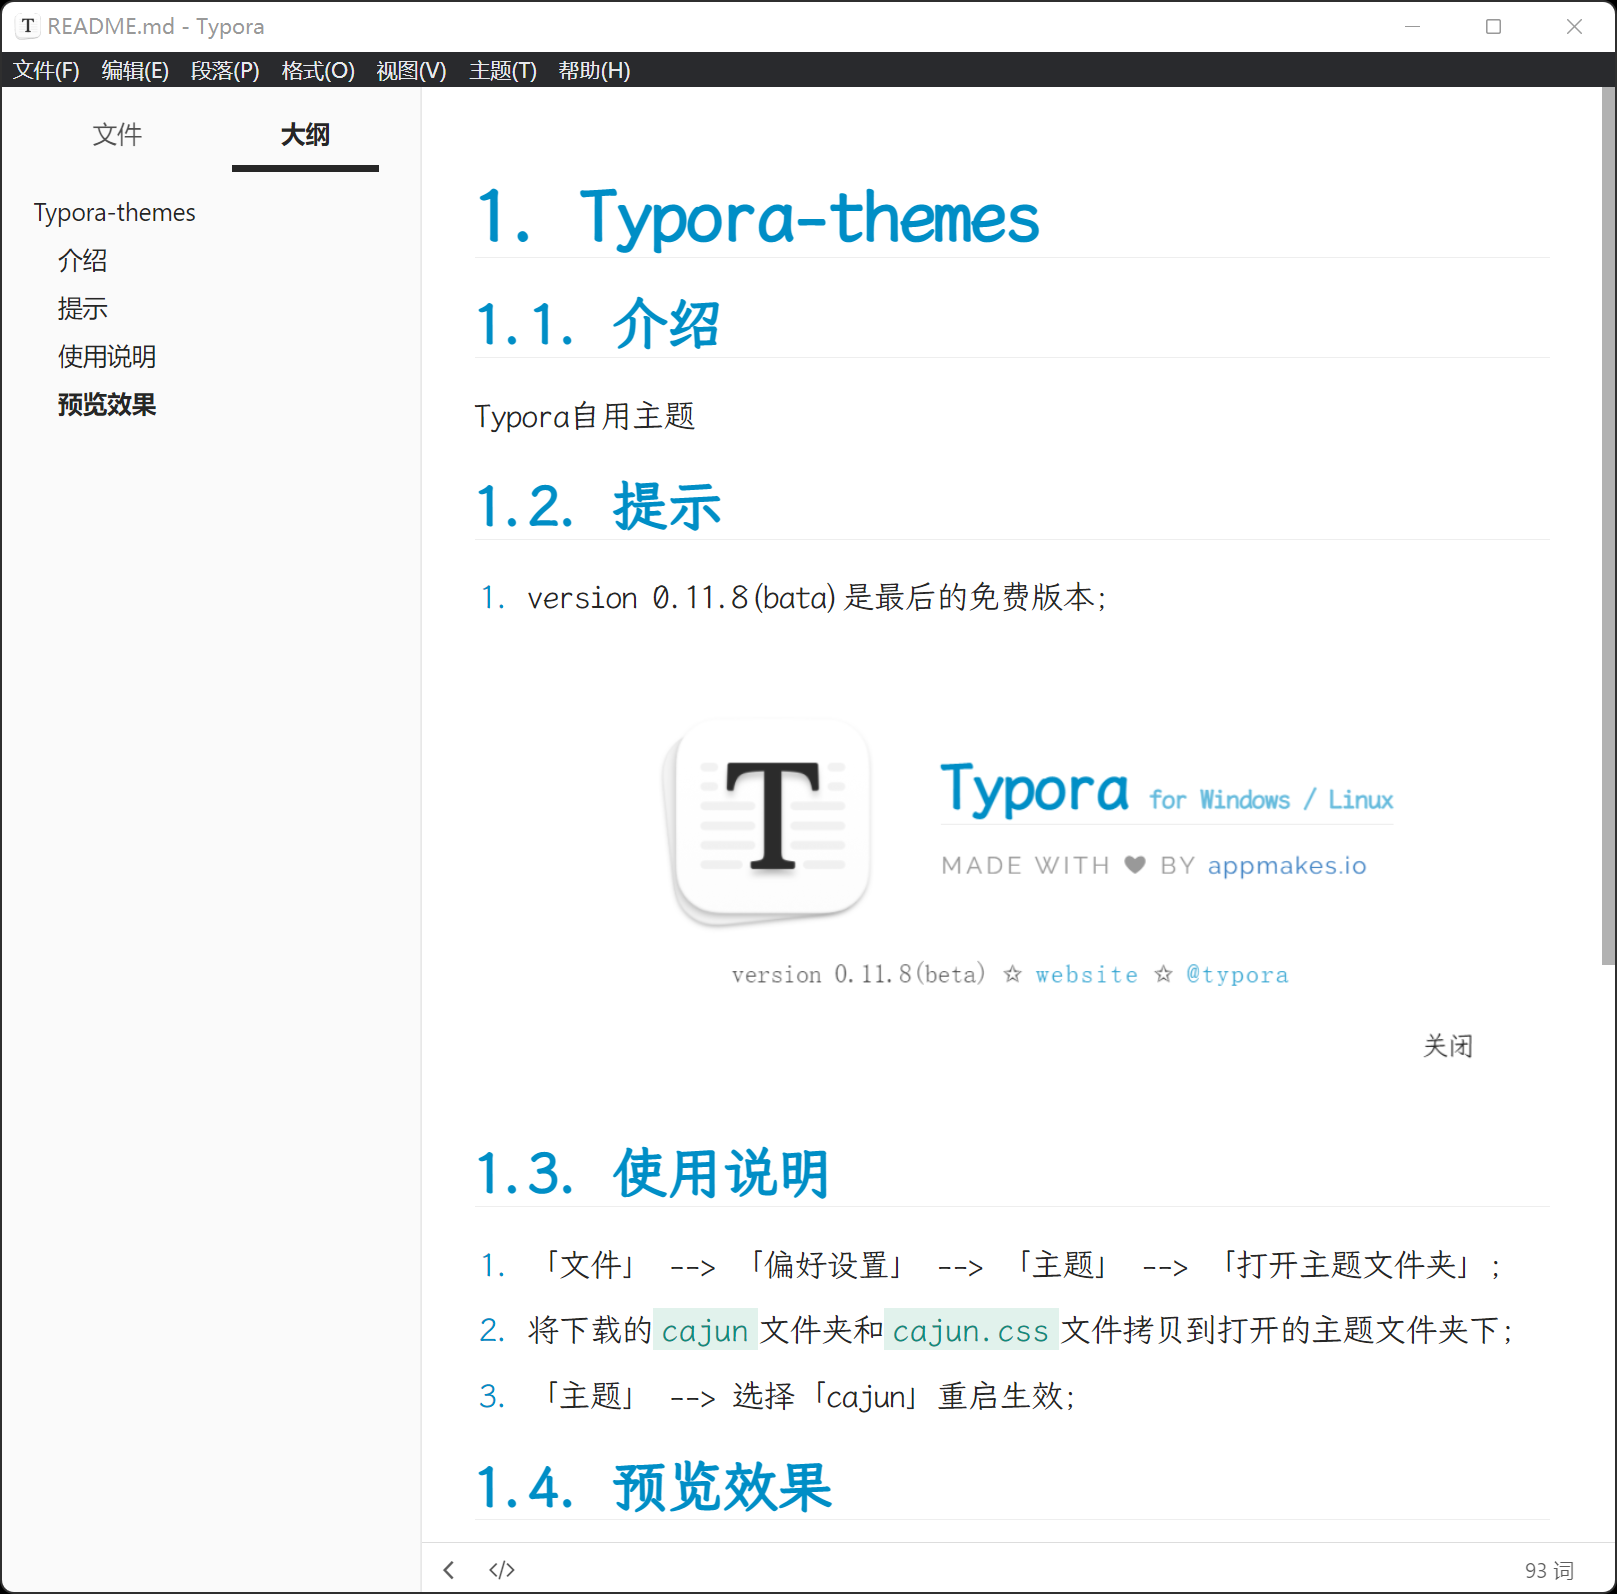
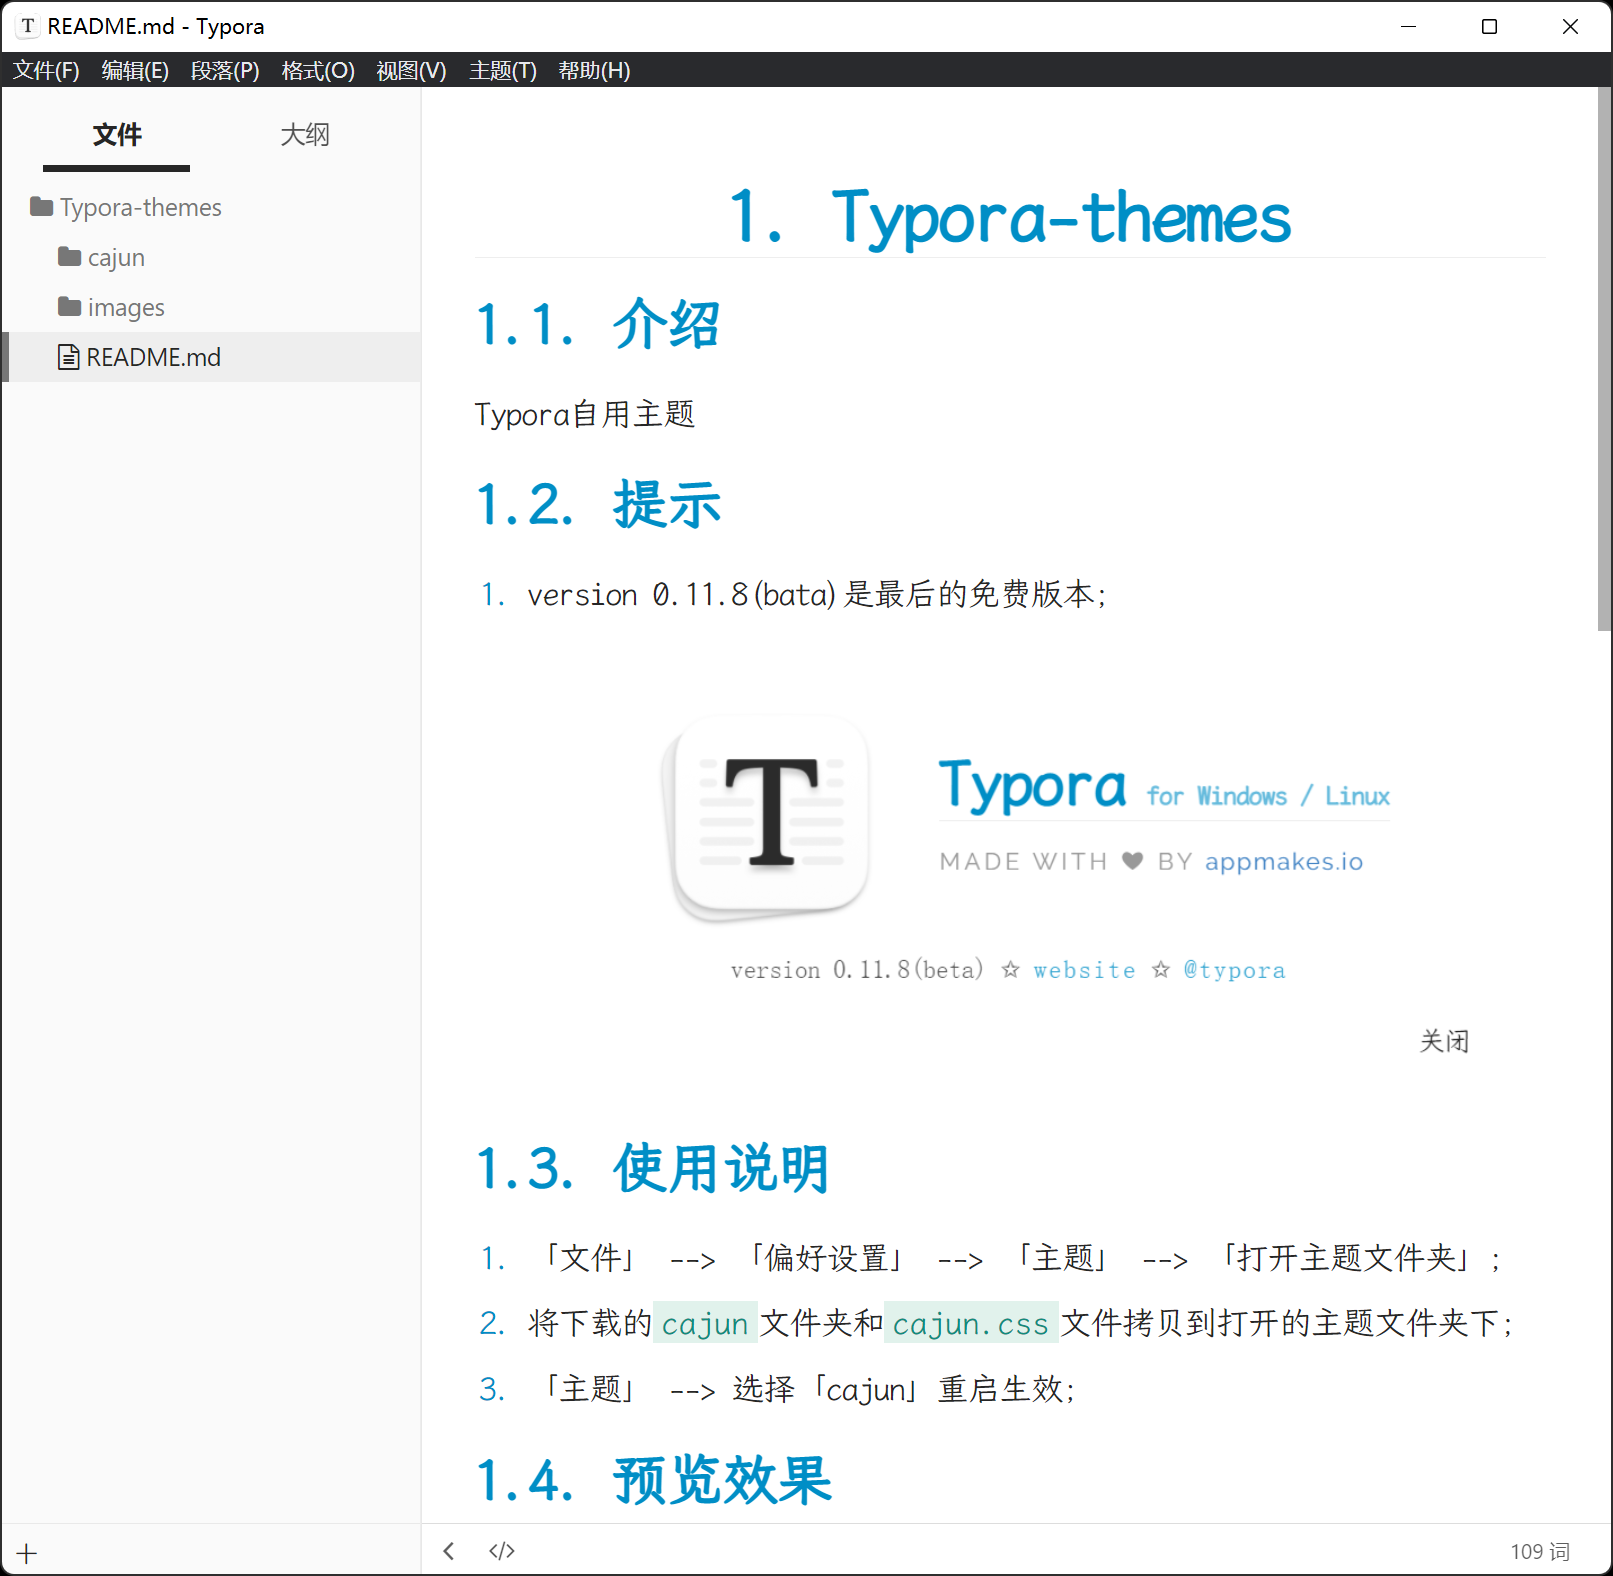
“2021-12-30-16-51-39”

diff --git a/cajun.css b/cajun.css
@@ -73,25 +73,15 @@ h6:hover a.anchor {
     text-decoration: none;
 }
 h1 tt,
-h1 code {
-    font-size: inherit;
-}
+h1 code,
 h2 tt,
-h2 code {
-    font-size: inherit;
-}
+h2 code,
 h3 tt,
-h3 code {
-    font-size: inherit;
-}
+h3 code,
 h4 tt,
-h4 code {
-    font-size: inherit;
-}
+h4 code,
 h5 tt,
-h5 code {
-    font-size: inherit;
-}
+h5 code,
 h6 tt,
 h6 code {
     font-size: inherit;
@@ -107,6 +97,7 @@ h1 {
 	counter-reset: h1;
 }
 h1{
+    text-align: center;
 	counter-reset: h2;
 }
 h2{
@@ -154,7 +145,6 @@ h5{
 h2 {
     font-size: 1.75rem;
     line-height: 1.225;
-    border-bottom: 1px solid #eee;
 }
 
 h3 {

diff --git a/README.md b/README.md
@@ -18,3 +18,10 @@ Typora自用主题
 ## 预览效果
 
 ![预览图](images/预览图.png)
+
+## 设置
+
+图片保存路径`./images/`
+
+![image-20211230164551861](images/设置-图像.png)
+
